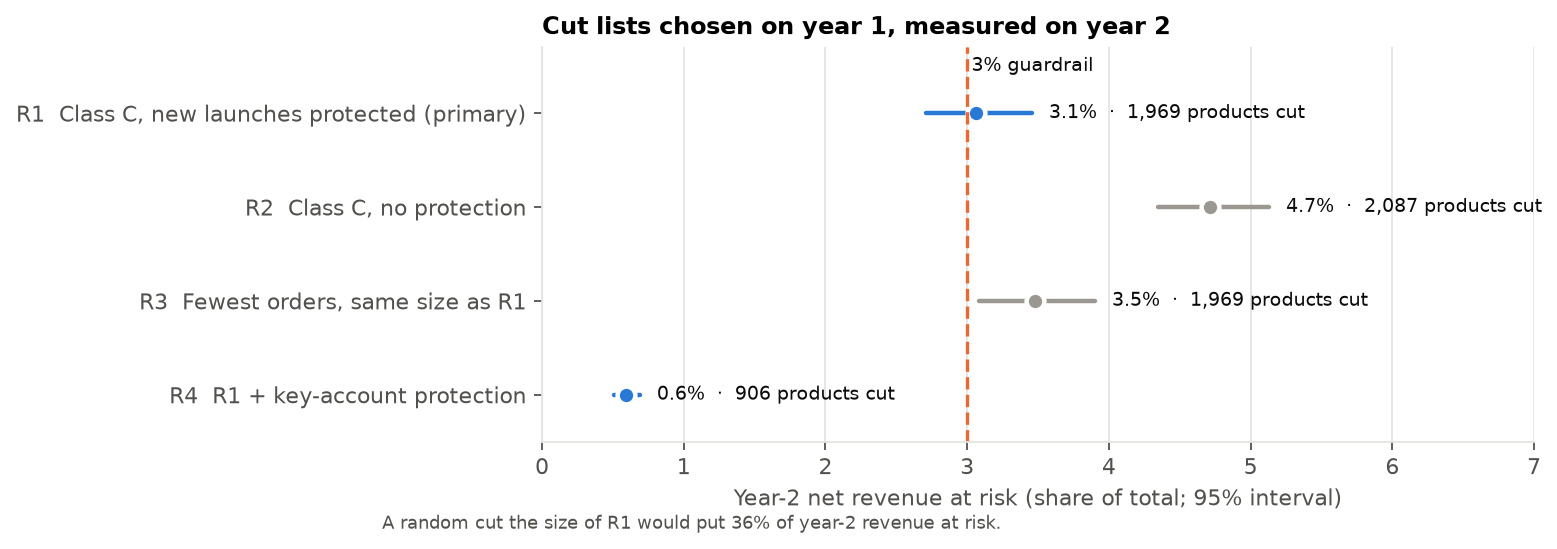
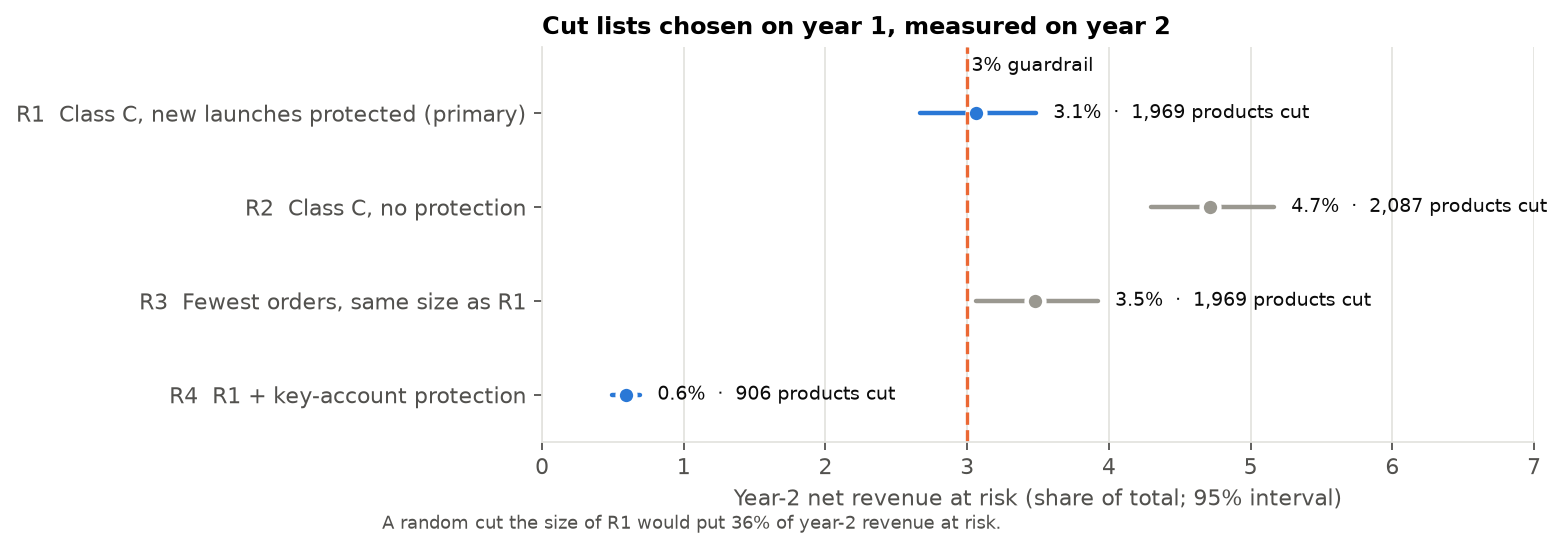
Pin Pillow and Streamlit, tie-break audit ordering, regenerate fig3

diff --git a/scripts/data_audit.py b/scripts/data_audit.py
@@ -46,16 +46,16 @@ def main() -> None:
     a["row_status"] = rows("SELECT row_status, count(*) AS n FROM lines GROUP BY 1 ORDER BY 2 DESC")
     a["line_types_kept"] = rows(
         "SELECT line_type, count(*) AS n, round(sum(line_value), 2) AS value FROM lines WHERE row_status = 'kept' "
-        "GROUP BY 1 ORDER BY 2 DESC"
+        "GROUP BY 1 ORDER BY 2 DESC, 1"
     )
     a["non_product_codes"] = rows(
         "SELECT stock_code, any_value(description ORDER BY row_id) AS example_description, count(*) AS n, "
         "round(sum(line_value), 2) AS value FROM lines WHERE row_status = 'kept' AND line_type = 'non_product' "
-        "GROUP BY 1 ORDER BY 3 DESC"
+        "GROUP BY 1 ORDER BY 3 DESC, 1"
     )
     a["stock_adjustment_descriptions"] = rows(
         "SELECT coalesce(description, '(blank)') AS description, count(*) AS n FROM lines "
-        "WHERE row_status = 'kept' AND line_type = 'stock_adjustment' GROUP BY 1 ORDER BY 2 DESC LIMIT 10"
+        "WHERE row_status = 'kept' AND line_type = 'stock_adjustment' GROUP BY 1 ORDER BY 2 DESC, 1 LIMIT 10"
     )
     a["lowercase_stock_codes_in_raw"] = one("SELECT count(*) FROM raw WHERE StockCode <> upper(StockCode)")[0]
     a["codes_with_several_descriptions"] = one(
@@ -75,7 +75,7 @@ def main() -> None:
     )
     a["largest_lines"] = rows(
         "SELECT invoice, stock_code, description, quantity, price, invoice_ts::VARCHAR AS invoice_ts "
-        "FROM product_lines ORDER BY abs(quantity) DESC LIMIT 4"
+        "FROM product_lines ORDER BY abs(quantity) DESC, invoice LIMIT 4"
     )
     a["windows"] = rows(
         "SELECT analysis_year, count(*) AS lines, count(DISTINCT invoice) FILTER (WHERE line_type = 'sale') AS orders, "
